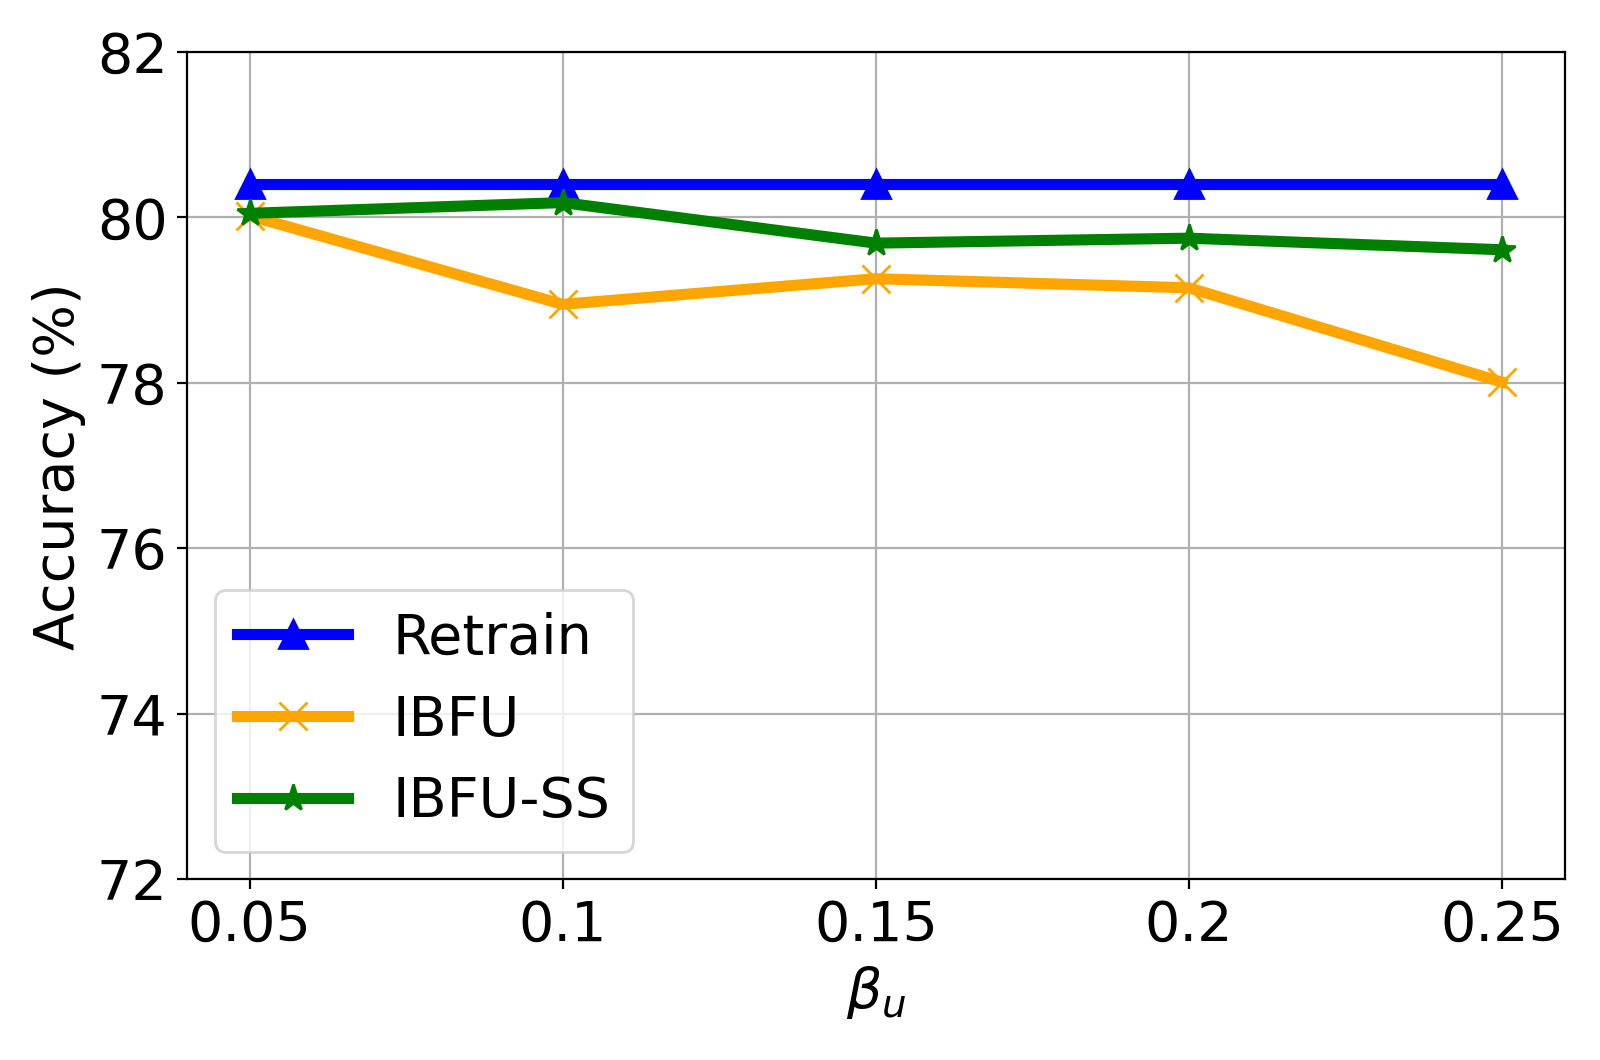
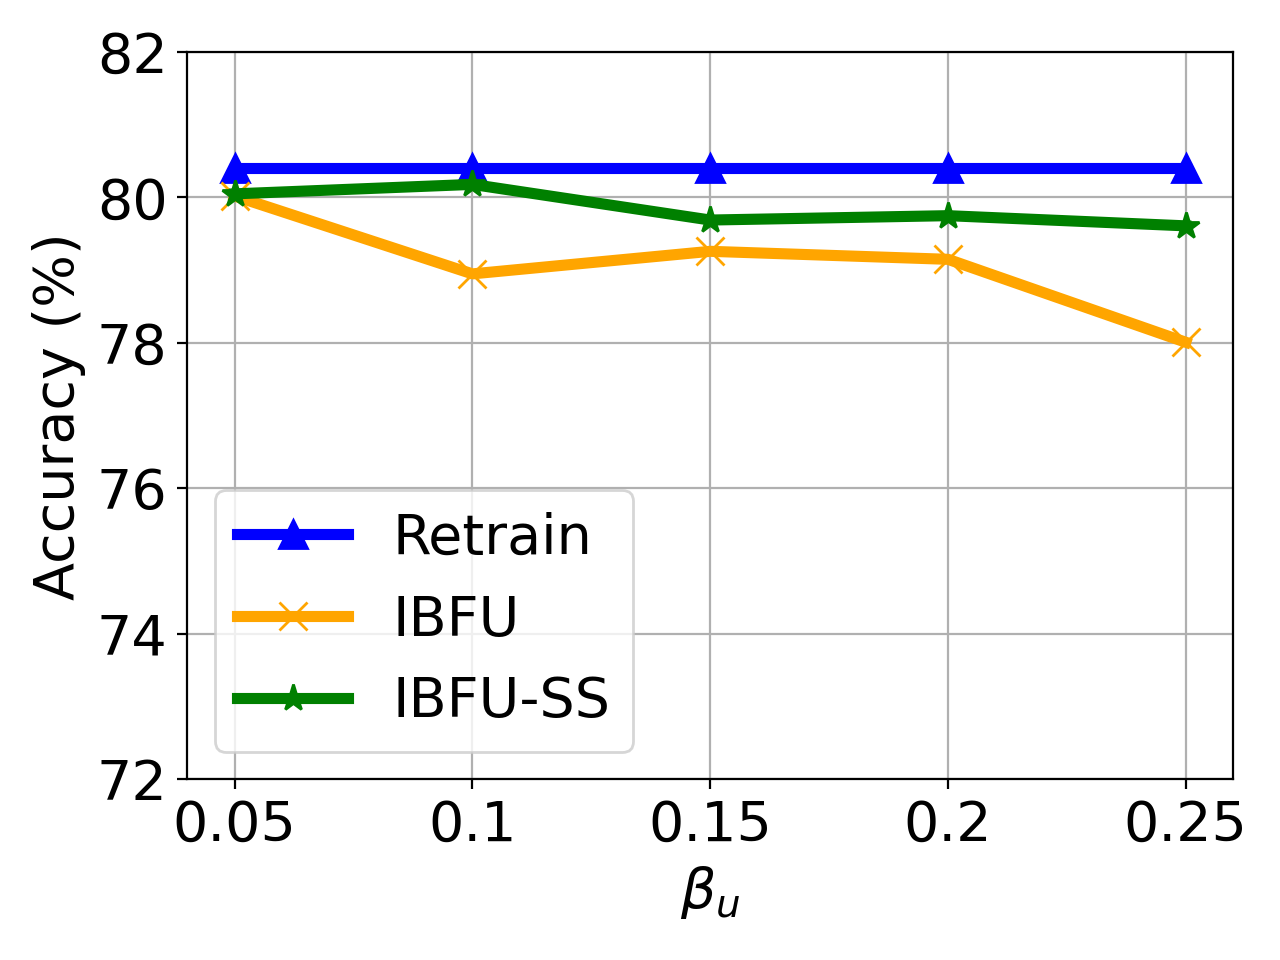
update

Changed region(s): [[0.0, 0.0312, 0.9688, 0.9688], [0.7812, 0.2812, 0.8125, 0.3125]]

diff --git a/IBFU_Experiment_results/CIFAR10/Server_runtime/cifar_rt_er_bar.py b/IBFU_Experiment_results/CIFAR10/Server_runtime/cifar_rt_er_bar.py
@@ -14,8 +14,8 @@ width = 0.6  # the width of the bars
 # samping = np.around(samping,0)
 # ldp = np.around(ldp,0)
 
-
-plt.subplots(figsize=(8, 5.3))
+plt.figure()
+#plt.subplots(figsize=(8, 5.3))
 plt.bar(x - width / 2 - width / 8 + width / 8, unl_fr, width=0.168, label='Retrain', color='dodgerblue', hatch='/')
 plt.bar(x - width / 8 - width / 16 , unl_br, width=0.168, label='IBFU', color='orange', hatch='\\')
 plt.bar(x + width / 8, unl_self_r, width=0.168, label='IBFU-SS', color='g', hatch='x')

diff --git a/IBFU_Experiment_results/CIFAR10/Server_runtime/cifar_rt_ke_bar.py b/IBFU_Experiment_results/CIFAR10/Server_runtime/cifar_rt_ke_bar.py
@@ -14,7 +14,9 @@ width = 0.6  # the width of the bars
 # samping = np.around(samping,0)
 # ldp = np.around(ldp,0)
 
-plt.subplots(figsize=(8, 5.3))
+
+plt.figure()
+#plt.subplots(figsize=(8, 5.3))
 plt.bar(x - width / 2 - width / 8 + width / 8, unl_fr, width=0.168, label='Retrain', color='dodgerblue', hatch='/')
 plt.bar(x - width / 8 - width / 16 , unl_br, width=0.168, label='IBFU', color='orange', hatch='\\')
 plt.bar(x + width / 8, unl_self_r, width=0.168, label='IBFU-SS', color='g', hatch='x')

diff --git a/IBFU_Experiment_results/CIFAR10/Server_backacc/cifar_BackAcc_ke_curve.py b/IBFU_Experiment_results/CIFAR10/Server_backacc/cifar_BackAcc_ke_curve.py
@@ -19,8 +19,8 @@ unl_self_r = [7, 6.3, 5.3, 3.2, 2.8]
 unl_hess_r = [5.7,  5.6, 7.1, 3, 1]
 org = [68.2, 86.2 , 88 ,89.7, 91.7]
 
-
-plt.figure(figsize=(8, 5.3))
+plt.figure()
+#plt.figure(figsize=(8, 5.3))
 plt.plot(x, unl_fr, color='blue', marker='^', label='Retrain',linewidth=4, markersize=10)
 plt.plot(x, unl_br, color='orange',  marker='x',  label='IBFU',linewidth=4,  markersize=10)
 plt.plot(x, unl_self_r, color='g',  marker='*',  label='IBFU-SS',linewidth=4, markersize=10)

diff --git a/IBFU_Experiment_results/CIFAR10/Server_runtime/cifar_rt_ur_bar.py b/IBFU_Experiment_results/CIFAR10/Server_runtime/cifar_rt_ur_bar.py
@@ -14,8 +14,8 @@ width = 0.6  # the width of the bars
 # samping = np.around(samping,0)
 # ldp = np.around(ldp,0)
 
-
-plt.subplots(figsize=(8, 5.3))
+plt.figure()
+#plt.subplots(figsize=(8, 5.3))
 plt.bar(x - width / 4 - width / 8 , unl_fr, width=0.168, label='Retrain', color='dodgerblue', hatch='/')
 plt.bar(x  - width / 16 , unl_br, width=0.168, label='IBFU', color='orange', hatch='\\')
 plt.bar(x + width / 4, unl_self_r, width=0.168, label='IBFU-SS', color='g', hatch='x')

diff --git a/IBFU_Experiment_results/MNIST/Server_backAcc/mnist_BackAcc_er_curve.py b/IBFU_Experiment_results/MNIST/Server_backAcc/mnist_BackAcc_er_curve.py
@@ -31,7 +31,9 @@ for i in range(len(unl_self_r)):
 for i in range(len(unl_hess_r)):
     unl_hess_r[i] = unl_hess_r[i] *100
 
-plt.figure(figsize=(8, 5.3))
+
+plt.figure()
+#plt.figure(figsize=(8, 5.3))
 plt.plot(x, unl_fr, color='blue', marker='^', label='Retrain',linewidth=4, markersize=10)
 plt.plot(x, unl_br, color='orange',  marker='x',  label='IBFU',linewidth=4,  markersize=10)
 plt.plot(x, unl_self_r, color='g',  marker='*',  label='IBFU-SS',linewidth=4, markersize=10)

diff --git a/IBFU_Experiment_results/MNIST/Server_backAcc/mnist_BackAcc_ur_curve.py b/IBFU_Experiment_results/MNIST/Server_backAcc/mnist_BackAcc_ur_curve.py
@@ -32,7 +32,8 @@ for i in range(len(unl_self_r)):
 for i in range(len(unl_hess_r)):
     unl_hess_r[i] = unl_hess_r[i] *100
 
-plt.figure(figsize=(8, 5.3))
+plt.figure()
+#plt.figure(figsize=(8, 5.3))
 plt.plot(x, unl_fr, color='blue', marker='^', label='Retrain',linewidth=4, markersize=10)
 plt.plot(x, unl_br, color='orange',  marker='x',  label='IBFU',linewidth=4,  markersize=10)
 plt.plot(x, unl_self_r, color='g',  marker='*',  label='IBFU-SS',linewidth=4, markersize=10)

diff --git a/IBFU_Experiment_results/CIFAR10/Server_acc/cifar10_Acc_er_curve.py b/IBFU_Experiment_results/CIFAR10/Server_acc/cifar10_Acc_er_curve.py
@@ -20,8 +20,8 @@ unl_self_r = [80.05, 79.97, 79.83, 79.77, 80.18]
 unl_hess_r = [79.97,  79.29, 79.03, 79.19, 79.3]
 
 
-
-plt.figure(figsize=(8, 5.3))
+plt.figure()
+#plt.figure(figsize=(8, 5.3))
 plt.plot(x, unl_fr, color='blue', marker='^', label='Retrain',linewidth=4, markersize=10)
 plt.plot(x, unl_br, color='orange',  marker='x',  label='IBFU',linewidth=4,  markersize=10)
 plt.plot(x, unl_self_r, color='g',  marker='*',  label='IBFU-SS',linewidth=4, markersize=10)

diff --git a/IBFU_Experiment_results/CIFAR10/Server_acc/cifar10_Acc_ur_curve.py b/IBFU_Experiment_results/CIFAR10/Server_acc/cifar10_Acc_ur_curve.py
@@ -20,8 +20,8 @@ unl_self_r = [80.05, 80.18, 79.69, 79.75, 79.61]
 unl_hess_r = [78.6,  78.6, 78.6, 78.6, 78.6]
 
 
-
-plt.figure(figsize=(8, 5.3))
+plt.figure()
+#plt.figure(figsize=(8, 5.3))
 plt.plot(x, unl_fr, color='blue', marker='^', label='Retrain',linewidth=4, markersize=10)
 plt.plot(x, unl_br, color='orange',  marker='x',  label='IBFU',linewidth=4,  markersize=10)
 plt.plot(x, unl_self_r, color='g',  marker='*',  label='IBFU-SS',linewidth=4, markersize=10)

diff --git a/IBFU_Experiment_results/MNIST/Server_runtime/mnist_rt_er_bar.py b/IBFU_Experiment_results/MNIST/Server_runtime/mnist_rt_er_bar.py
@@ -15,7 +15,8 @@ width = 0.6  # the width of the bars
 # ldp = np.around(ldp,0)
 
 
-plt.subplots(figsize=(8, 5.3))
+plt.figure()
+#plt.subplots(figsize=(8, 5.3))
 plt.bar(x - width / 2 - width / 8 + width / 8, unl_fr, width=0.168, label='Retrain', color='dodgerblue', hatch='/')
 plt.bar(x - width / 8 - width / 16 , unl_br, width=0.168, label='IBFU', color='orange', hatch='\\')
 plt.bar(x + width / 8, unl_self_r, width=0.168, label='IBFU-SS', color='g', hatch='x')

diff --git a/IBFU_Experiment_results/MNIST/Server_runtime/mnist_rt_ke_bar.py b/IBFU_Experiment_results/MNIST/Server_runtime/mnist_rt_ke_bar.py
@@ -15,7 +15,8 @@ width = 0.6  # the width of the bars
 # ldp = np.around(ldp,0)
 
 
-plt.subplots(figsize=(8, 5.3))
+plt.figure()
+#plt.subplots(figsize=(8, 5.3))
 plt.bar(x - width / 2 - width / 8 + width / 8, unl_fr, width=0.168, label='Retrain', color='dodgerblue', hatch='/')
 plt.bar(x - width / 8 - width / 16 , unl_br, width=0.168, label='IBFU', color='orange', hatch='\\')
 plt.bar(x + width / 8, unl_self_r, width=0.168, label='IBFU-SS', color='g', hatch='x')

diff --git a/IBFU_Experiment_results/CIFAR10/Server_backacc/cifar_BackAcc_ur_curve.py b/IBFU_Experiment_results/CIFAR10/Server_backacc/cifar_BackAcc_ur_curve.py
@@ -20,8 +20,8 @@ unl_hess_r = [18.04,  18.04, 18.04, 18.04, 18.04]
 org =[88.3, 88.8, 88.2,88.3,88.9]
 
 
-
-plt.figure(figsize=(8, 5.3))
+plt.figure()
+#plt.figure(figsize=(8, 5.3))
 plt.plot(x, unl_fr, color='blue', marker='^', label='Retrain',linewidth=4, markersize=10)
 plt.plot(x, unl_br, color='orange',  marker='x',  label='IBFU',linewidth=4,  markersize=10)
 plt.plot(x, unl_self_r, color='g',  marker='*',  label='IBFU-SS',linewidth=4, markersize=10)

diff --git a/IBFU_Experiment_results/CIFAR10/Server_backacc/cifar_BackAcc_er_curve.py b/IBFU_Experiment_results/CIFAR10/Server_backacc/cifar_BackAcc_er_curve.py
@@ -20,8 +20,8 @@ unl_hess_r = [7,  6.3, 6.6, 7.8, 7.1]
 org = [80.4, 82.6, 85.2,87.4, 89.7]
 
 
-
-plt.figure(figsize=(8, 5.3))
+plt.figure()
+#plt.figure(figsize=(8, 5.3))
 plt.plot(x, unl_fr, color='blue', marker='^', label='Retrain',linewidth=4, markersize=10)
 plt.plot(x, unl_br, color='orange',  marker='x',  label='IBFU',linewidth=4,  markersize=10)
 plt.plot(x, unl_self_r, color='g',  marker='*',  label='IBFU-SS',linewidth=4, markersize=10)
